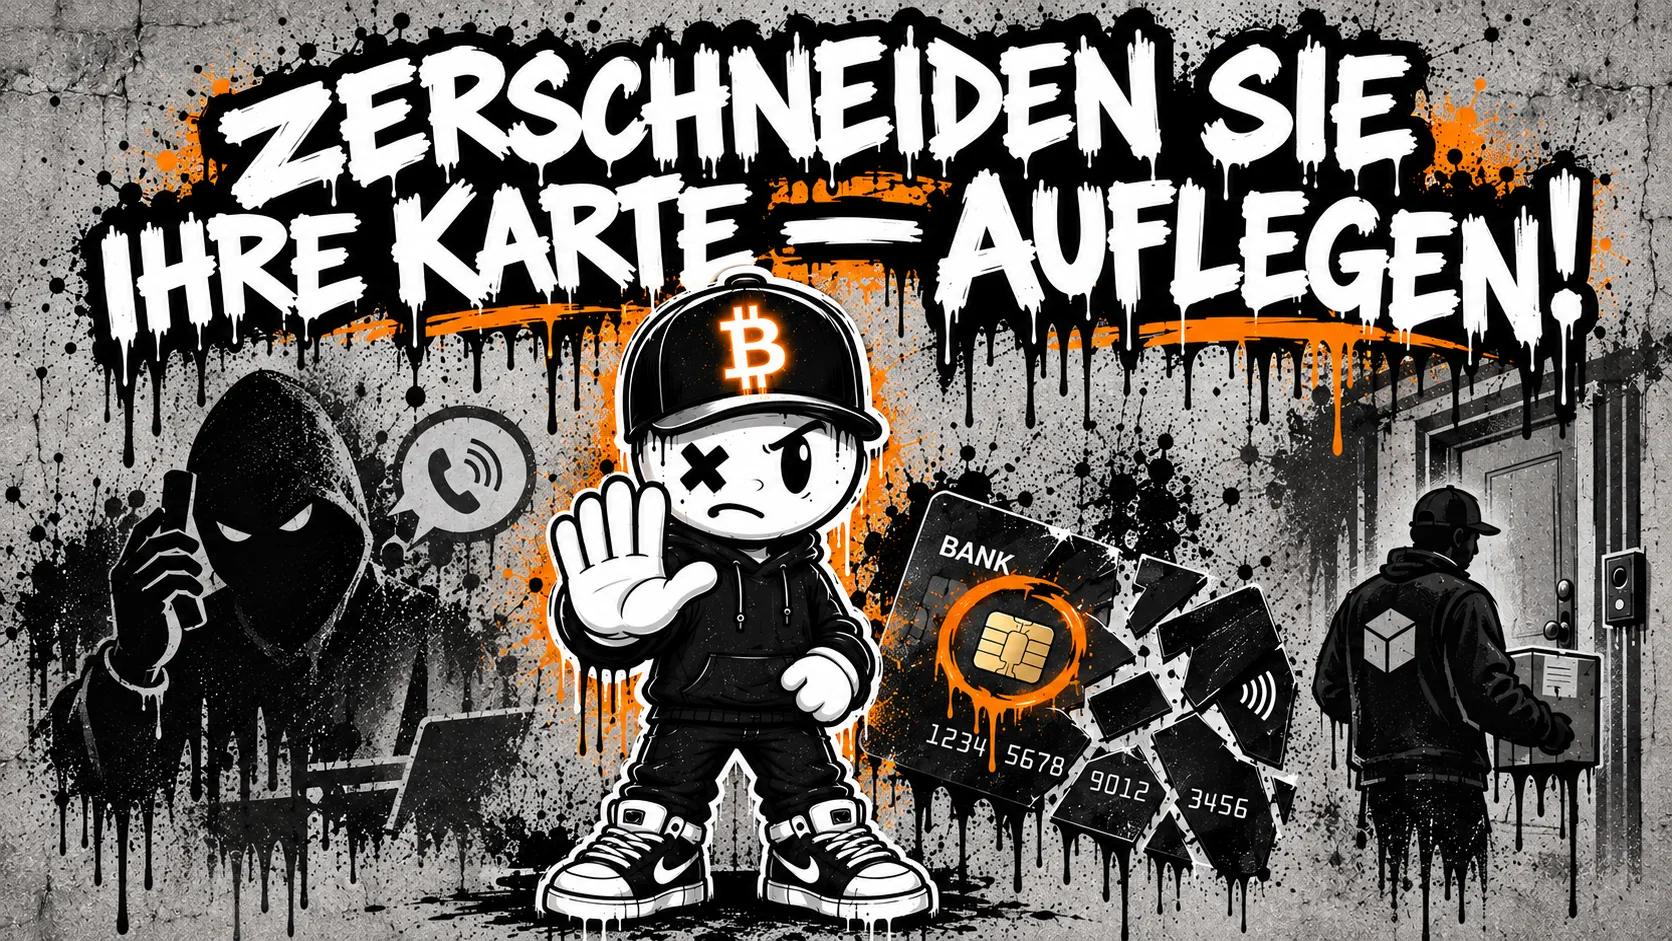
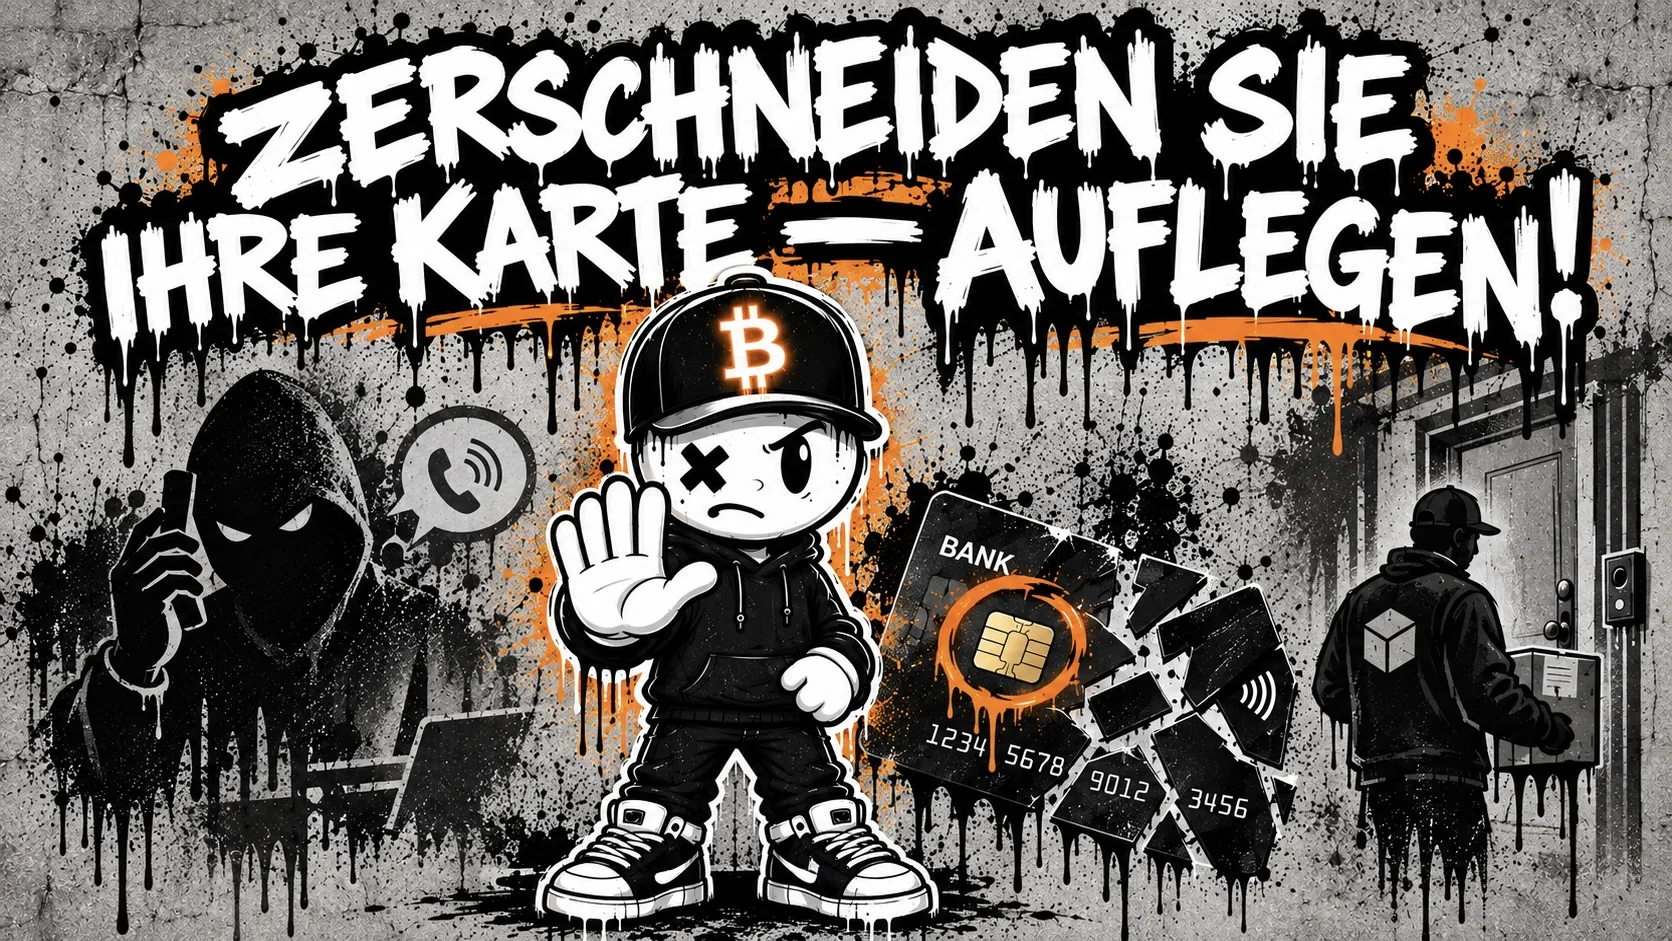
Bankkarte-Artikel: drei Stilmuster raus, Bild ohne Markenzeichen
Dennys Ersetzungen fuer die drei Stellen, die ich gemeldet hatte:

  Das Enthuellungs-Geruest ("Und dann kommt der entscheidende Satz,
  der eigentlich alle Alarmglocken schrillen lassen muesste:") faellt
  weg. Der Satz des Anrufers steht jetzt direkt da, gefolgt von
  "So sagt er das." Das traegt staerker als die Ansage davor.

  Der Ratgeber-Einstieg ("Deshalb jetzt der Teil, den du dir merken
  und weitergeben solltest") faellt weg. Beginnt jetzt mit der Sache
  selbst.

  Der Schluss ("Denn die beste Firewall gegen diese Maschen sitzt
  nicht im Computer. Sie sitzt zwischen deinen Ohren.") faellt weg.
  Der Artikel endet auf dem praktischen Rat statt auf dem
  Kalenderspruch — passt zum Rest.

647 auf 603 Woerter.

Bild ersetzt: Die Sneaker trugen sichtbare Nike-Swooshes. Ein
fremdes Markenzeichen in einem veroeffentlichten Bild einer Figur,
die spaeter auf Merch soll, will man nicht drin haben. Neue Fassung
mit schlichten Schuhen.

Claude-Session: https://claude.ai/code/session_012RwEGsyYgi5QPJmdT4H5t1

diff --git a/src/content/blog/bankkarte-zerschneiden-chip-betrug.md b/src/content/blog/bankkarte-zerschneiden-chip-betrug.md
@@ -18,12 +18,12 @@ Es gibt Betrugsmaschen, die sind so plump, dass man sich fragt, wer da überhaup
 
 Fangen wir mit dem Rat an, den du kennst. Alte Bankkarte weg? Vorher zerschneiden. Das steht in jedem Sicherheitstipp, das sagen die Banken selbst, das machen vernünftige Leute. Damit niemand die Nummer abliest oder den Magnetstreifen ausliest. Alles korrekt. Und jetzt kommen die Betrüger und drehen dir genau diese vernünftige Gewohnheit zum Strick.
 
-So läuft das ab. Es beginnt oft mit einer SMS. Angeblich von deiner Bank, irgendwas mit einem Kartenproblem oder einer verdächtigen Abbuchung. Du sollst dich melden. Tust du das, hast du plötzlich einen freundlichen, kompetent klingenden „Bankmitarbeiter“ am Telefon. Der erklärt dir, deine Karte sei kompromittiert, aus Sicherheitsgründen müsse sie vernichtet werden. Und dann kommt der entscheidende Satz, der eigentlich alle Alarmglocken schrillen lassen müsste: Zerschneiden Sie die Karte bitte, aber lassen Sie den Chip unbeschädigt. Klingt im ersten Moment sogar plausibel, oder? Karte kaputt, Gefahr gebannt. Kurz darauf klingelt es an der Tür. Ein Bote, angeblich von der Bank, holt die zerschnittenen Teile ab. Zack, weg.
+So läuft das ab. Es beginnt oft mit einer SMS. Angeblich von deiner Bank, irgendwas mit einem Kartenproblem oder einer verdächtigen Abbuchung. Du sollst dich melden. Tust du das, hast du plötzlich einen freundlichen, kompetent klingenden „Bankmitarbeiter“ am Telefon. Der erklärt dir, deine Karte sei kompromittiert, aus Sicherheitsgründen müsse sie vernichtet werden. Zerschneiden Sie die Karte bitte, aber lassen Sie den Chip unbeschädigt. So sagt er das. Klingt im ersten Moment sogar plausibel, oder? Karte kaputt, Gefahr gebannt. Kurz darauf klingelt es an der Tür. Ein Bote, angeblich von der Bank, holt die zerschnittenen Teile ab. Zack, weg.
 
 Und was passiert dann mit deiner angeblich zerstörten Karte? Genau das, wovor du dich eigentlich schützen wolltest. Die Täter setzen den Chip wieder zusammen. Die Schnipsel zusammenkleben, sodass das gute Stück wieder in einen Automaten passt, das ist für die kein großes Ding. Der Chip ist ja heil, den hast du auf Bitte extra geschont. Jetzt fehlt ihnen nur noch eins: deine PIN. Wie die Täter im Schweizer Fall daran gekommen sind, weiß die Behörde selbst nicht — sie geht davon aus, dass die PIN im Telefongespräch erfragt oder unauffällig abgeschöpft wurde. Karte plus PIN. Mehr brauchen sie nicht. Dein Konto ist offen wie ein Scheunentor. In einem der gemeldeten Fälle waren es über 10.000 Franken.
 
 Wenn du jetzt denkst, so blöd wäre ich nie, dann halt kurz inne. Genau dieses Gefühl ist der Grund, warum solche Maschen funktionieren. Die Täter setzen dich unter Druck, sie erzeugen Angst um dein Geld, sie klingen professionell, und sie geben dir eine Aufgabe, die sich vernünftig anfühlt. In dem Moment denkt kaum jemand kühl nach. Und die Hauptzielgruppe sind ältere Menschen, die einem Anruf von der „Bank“ noch mit dem gewohnten Vertrauen begegnen und bei denen die Hemmschwelle, einfach aufzulegen, höher ist. Deine Eltern. Deine Großeltern. Die trifft das.
 
-Deshalb jetzt der Teil, den du dir merken und weitergeben solltest, und es ist zum Glück ganz einfach. Du musst dir nicht jede einzelne Masche merken, es gibt nämlich eine Regel, die gegen fast alle davon gleichzeitig schützt. Sie lautet: Keine echte Bank ruft dich an und will deine Karte, deinen Chip oder deine PIN. Nie. Unter keinen Umständen. Eine Bank fordert dich niemals auf, deine Karte irgendwo hinzuschicken, sie einem Boten mitzugeben oder deine PIN am Telefon durchzugeben. Wenn genau das passiert, weißt du sofort und mit hundertprozentiger Sicherheit: Das ist ein Betrüger. Punkt. Kein Zweifel, kein „aber vielleicht doch“. Auflegen.
+Du musst dir nicht jede einzelne Masche merken. Es gibt eine Regel, die gegen fast alle davon gleichzeitig schützt. Sie lautet: Keine echte Bank ruft dich an und will deine Karte, deinen Chip oder deine PIN. Nie. Unter keinen Umständen. Eine Bank fordert dich niemals auf, deine Karte irgendwo hinzuschicken, sie einem Boten mitzugeben oder deine PIN am Telefon durchzugeben. Wenn genau das passiert, weißt du sofort und mit hundertprozentiger Sicherheit: Das ist ein Betrüger. Punkt. Kein Zweifel, kein „aber vielleicht doch“. Auflegen.
 
-Und wenn du dann noch auf Nummer sicher gehen willst, ruf deine Bank zurück. Aber nicht unter der Nummer, die dir der Anrufer genannt oder als Rückruf angezeigt hat, die kann gefälscht sein. Nimm die Nummer, die hinten auf deiner echten Karte steht oder auf der offiziellen Website. Dann redest du garantiert mit den richtigen Leuten. Das kostet dich zwei Minuten und im Zweifel dein halbes Erspartes weniger. Sprich das einmal in Ruhe mit den Älteren in deiner Familie durch. So ein kurzes Gespräch heute kann ihnen einen bösen Anruf irgendwann ersparen. Denn die beste Firewall gegen diese Maschen sitzt nicht im Computer. Sie sitzt zwischen deinen Ohren.
+Und wenn du dann noch auf Nummer sicher gehen willst, ruf deine Bank zurück. Aber nicht unter der Nummer, die dir der Anrufer genannt oder als Rückruf angezeigt hat, die kann gefälscht sein. Nimm die Nummer, die hinten auf deiner echten Karte steht oder auf der offiziellen Website. Dann redest du garantiert mit den richtigen Leuten. Das kostet dich zwei Minuten und im Zweifel dein halbes Erspartes weniger. Sprich das einmal in Ruhe mit den Älteren in deiner Familie durch. So ein kurzes Gespräch heute kann ihnen irgendwann einen bösen Anruf ersparen.
